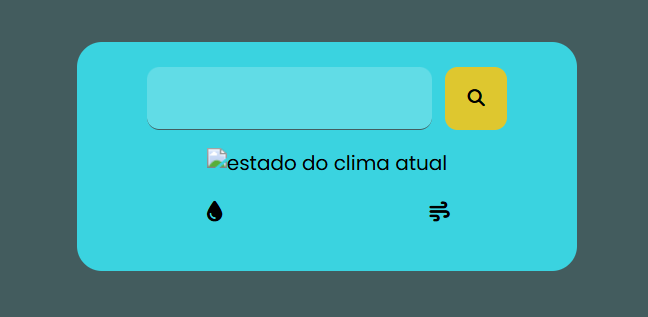
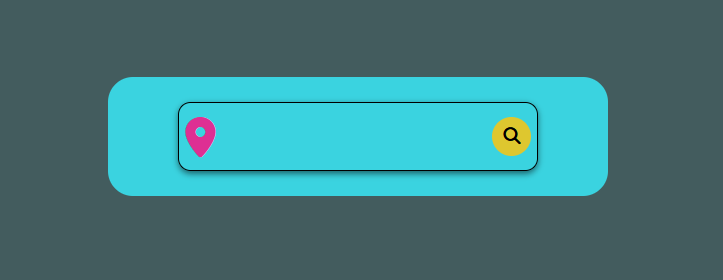
Some e aparecer a div conteudo quando pesquisa uma cidade

diff --git a/src/CSS/style.css b/src/CSS/style.css
@@ -43,77 +43,128 @@ body {
 		display: flex;
 		flex-direction: row;
 		width: 80%;
-		gap: 10px;
+		
+		align-items: center;
+		border: 1px solid ;
+		border-radius: 10px;
+		padding: 5px;
+		box-shadow: 0px 2px 5px rgba(0, 0, 0, 0.5);
 
 		input {
-			background-color: rgba(255, 255, 255, 0.197);
 			border: none;
 			border-radius: 10px;
-			border-bottom: 1px solid var(--cor-sombra1);
 			outline: none;
-			flex: 1;
-			
-
-			&:focus {
-				border-left: 1px solid var(--cor-sombra1);
-				border-top: 1px solid var(--cor-sombra1);		
-				border-right: 1px solid var(--cor-sombra1);	
-				transition: border-left 0.02s ease, border-top 0.05s ease, border-right 0.1s ease-in;
-			}
-
-			&:not(:focus) {
-				border-left: 0px solid var(--cor-sombra1);
-				border-top: 0px solid var(--cor-sombra1);		
-				border-right: 0px solid var(--cor-sombra1);	
-				transition: border-left 0.05s ease-out, border-top 0.1s ease-out, border-right 0.2s ease-out;
-			}
+			background-color: transparent;
+			font-size: 1em;
+			padding: 10px;
+			color: #fdfdfd;
 		}
 
 		button {
-			width: 50px;
+			text-align: center;		
+			width: 100%;
 			aspect-ratio: 1 / 1;
-			background-color: var(--cor2);
 			border: none;
 			outline: none;
-			border-radius: 10px;
+			border-radius: 100%;
+			background-color: var(--cor2);
+		}
+
+		.fa-location-dot {
+			font-size: 2em;
+			color: var(--cor3);
+		}
+
+		.fa-magnifying-glass {
+			font-size: 1em;
+			
+			
 		}
 
 	}
+}
+
+.campo-conteudo {
+	display: none;
+	justify-content: center;
+	align-items: center;
+	flex-direction: column;
+	width: 400px;
+	height: auto;
+	background-color: var(--cor1);
+	border-radius: 20px;
+	padding: 20px;
+	gap: 15px;
 
 	.infos-principais {
 		width: 100%;
 		display: flex;
 		flex-direction: column;
-		align-items: center;
-		
-		
+		align-items: center;	
 
 		.img-clima-celsius {
 			display: flex;
 			justify-content: space-between;
-
+			align-items: center;
+			gap: 5px; 
+			border-radius: 10px;
+			padding: 5px 10px;
+			background-color: var(--cor2);
+			margin-bottom: 10px;
+			
 			img {
+				width: 100px;
+				filter: drop-shadow(-3px 3px 5px rgba(0, 0, 0, 0.5));
 				
 			}
 
 			p {
 				font-size: 3em;
-				
+				font-weight: 800;
+
+				sup {
+					font-size: 20px;
+					font-weight: 500;
+				}
 			}
 
 			.info-min-max {
-				
+				display: flex;
+				flex-direction: column;
+				align-items: center;
+				justify-content: center;
+				gap: 1px;
 
-				label {
-					display: flex;
-					flex-direction: row;
-					gap: 5px;
-					font-size: 12px;
+				sup {
+					font-size: 10px;
 				}
 
+				.info-max {
+					display: flex;
+					flex-direction: row;
+					align-items: center;
+					gap: 5px;
+						i {
+							color:red;
+						}
+				}
+
+				.info-min {
+					display: flex;
+					flex-direction: row;
+					align-items: center;
+					gap: 5px;
+
+						i {
+							color:blue;
+						}
+				}
+
+
+
 				p {
-					font-size: 1.5em;
-					
+					font-size: 0.8em;
+					color: #000;
 				}
 
 			}
@@ -125,6 +176,52 @@ body {
 		width: 100%;
 		display: flex;
 		justify-content: space-around;
+		align-items: center;
+
+		hr {
+			width: 40px;
+			height: 1px;
+			border: 0px;
+			transform: rotate(90deg);
+			background-color: #fdfdfd;
+		}
+
+		.info-umidade, .info-vento {
+			display:flex;
+			flex-direction: row;
+			align-items: center;
+			font-size: 2em;
+			
+			span {
+				font-size: 0.5em;
+				color: var(--cor3);
+			}
+		}
+
+		.info-umidade {
+			padding: 10px;
+					
+			
+			i {
+				color: blue;
+			}
+		}
+
+		.info-vento {
+			
+
+			i {
+				color: rgb(103, 103, 255);
+			}
+		}
+
 	}
 
+	h2 {
+		text-transform: capitalize;
+	}
 }
+
+.show {
+		display: flex;
+	}

diff --git a/src/JS/script.js b/src/JS/script.js
@@ -1,5 +1,6 @@
 
 const img_clima = document.querySelector('.img-clima-celsius img');
+const campo_conteudo = document.querySelector('.campo-conteudo');
 
 async function chamarAPI(cidade) {
     const url = `https://api.openweathermap.org/data/2.5/weather?q=${encodeURI(cidade)}&appid=721c6b439f303ad1b39f30a29934c57e&units=metric&lang=pt_br`;
@@ -21,6 +22,7 @@ async function chamarAPI(cidade) {
 }
 
 function imprimirInfos(infos) {
+    campo_conteudo.classList.add('show');
     //h1
     document.querySelector('.infos-principais h1').innerHTML = `${infos.city}, ${infos.pais}`
 
@@ -28,27 +30,40 @@ function imprimirInfos(infos) {
     document.querySelector('.img-clima-celsius img').setAttribute('src', `https://openweathermap.org/payload/api/media/file/${infos.img}.png`);
 
     //Temperatura Atual
-    document.querySelector('.img-clima-celsius p').innerHTML = infos.tempAtual;
+    document.querySelector('.img-clima-celsius p').innerHTML = `${infos.tempAtual.toFixed(1).toString().replace('.', ',')}<sup>°C</sup>`;
 
     //Temperatura Max e Min
-    document.querySelector('.info-max').innerHTML = infos.tempMax;
-    document.querySelector('.info-min').innerHTML = infos.tempMin;
+    document.querySelector('.info-max p').innerHTML = `${infos.tempMax.toFixed(1).toString().replace('.', ',')}<sup>°C</sup>`;
+    document.querySelector('.info-min p').innerHTML = `${infos.tempMin.toFixed(1).toString().replace('.', ',')}<sup>°C</sup>`;
 
     //Umindade
-    document.querySelector('.info-umidade p').innerHTML = infos.umidade;
+    document.querySelector('.info-umidade p').innerHTML = `${infos.umidade}<span>%</span>`;
 
     //Velocidade do Vento
-    document.querySelector('.info-vento p').innerHTML = infos.vento;
+    document.querySelector('.info-vento p').innerHTML = `${infos.vento}<span>Km/h</span>`;
 
     document.querySelector('h2').innerHTML = infos.descricao;
 }
 
-
 const input_pesquisa = document.querySelector('.campo-pesquisa input');
 const btn_pesquisar = document.querySelector('.campo-pesquisa button');
 
+
 btn_pesquisar.addEventListener('click', (e) => {
     e.preventDefault();
-
+    campo_conteudo.classList.remove('show');
     chamarAPI(input_pesquisa.value);
+    
+
 })
+
+input_pesquisa.addEventListener('keyup', (e) => {
+    e.preventDefault();
+    
+    if(e.key === 'Enter') {
+        chamarAPI(input_pesquisa.value);
+        campo_conteudo.classList.remove('show');
+    }
+
+})
+

diff --git a/index.html b/index.html
@@ -19,37 +19,53 @@
     <div class="container-principal">
 
         <div class="campo-pesquisa">
+            <i class="fa-solid fa-location-dot"></i>
             <input type="text">
             <button><i class="fa-solid fa-magnifying-glass"></i></button>
         </div>
-    
-        <div class="infos-principais">
-            <h1></h1>
-            <div class="img-clima-celsius">
-                <img src="" alt="estado do clima atual">
-                <p></p>
 
-                <div class="info-min-max">
-                    <label for=""><p class="info-max"></p></label>
-                    <label for=""><p class="info-min"></p></label>
+        <div class="campo-conteudo">
+
+            <div class="infos-principais">
+                <h1></h1>
+                <div class="img-clima-celsius">
+                    <img src="" alt="estado do clima atual">
+                    <p></p>
+
+                    <div class="info-min-max">
+                        <div class="info-max">
+                            <i class="fa-solid fa-temperature-arrow-up"></i>
+                            <p></p>
+                        </div>
+
+                        <div class="info-min">
+                            <i class="fa-solid fa-temperature-arrow-down"></i>
+                            <p></p>
+                        </div>
+                    </div>
                 </div>
-            </div>            
-        </div>
-        
-        <div class="info-umidade-vento">
-            <div class="info-umidade">
-                <i class="fa-solid fa-droplet"></i>
-                <p></p>
-            </div>
 
-            <div class="info-vento">
-                <i class="fa-solid fa-wind"></i>
-                <p></p>
-            </div>
-        </div>
+                <div class="info-umidade-vento">
+                    <div class="info-umidade">
+                        <i class="fa-solid fa-droplet"></i>
+                        <p></p>
+                    </div>
+                    
+                    <hr>
 
-        <h2></h2>  
+                    <div class="info-vento">
+                        <i class="fa-solid fa-wind"></i>
+                        <p></p>
+                    </div>
+                </div>
+            </div>
+            
+            <h2></h2> 
+            
+        </div>  
 
     </div>
+    
+</div>
 </body>
 </html>

diff --git a/README.md b/README.md
@@ -12,6 +12,21 @@ Uma interface que mostra o clima de uma cidade, contendo informações como:
 
 O objetivo desse projeto é praticar a consumir uma API e integrar as informações em uma interface simples de HTML e CSS. A API foi escolhida por ser gratuita e pela possibilidade de fazer um projeto mais profissional.
 
+## CSS Nestin:
+Neste Projeto, decidi usar o CSS Nestin, que tem uma estrutura parecida com o do HTML. <br/><br/>
+**Exemplo**: 
+```CSS
+.container {
+    width: 50px;
+    height: 50px;
+    background-color: red;
+
+    &:hover {
+        background-color: blue;
+    }
+}
+```
+
 ## Imagens de como está o projeto Atualmente
 Tela antes de pesquisar a cidade
 ![imagem Atual da Página sem input](src/imagens/tela-atual1.png)
